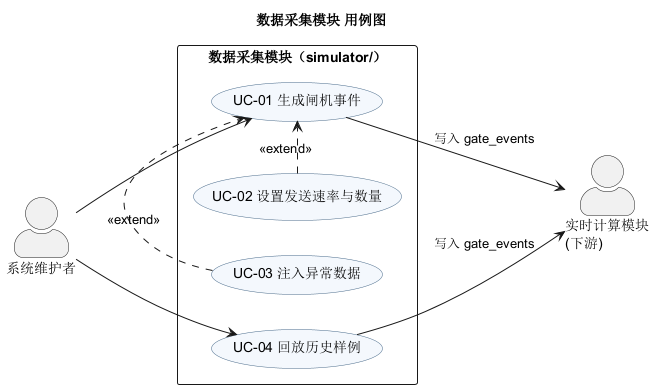
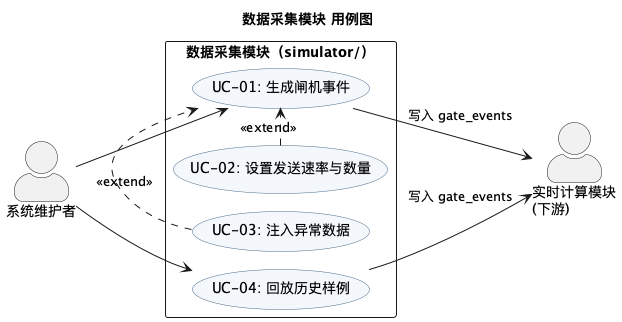
docs(需求): 按实验一规范补角色表和用例列表 (#4)
对照实验指导书「二、需求规格说明书」2.1/2.2 的格式重做需求文档。

用例表：
- 新增表1-1 角色列表，6 个角色含人与系统内部参与者
- 新增表1-2 用例列表，18 条，保留原有的用户故事追溯列
- 删掉原来的「0. 汇总」表，它和表1-2 重复
- 优先级由「高/中/低」改为 E/H/F 三档，全文统一
- 服务模块 UC-10/11/12/13 由 7 字段扩到 11 字段，
  补「描述」「风险」「触发条件」
- 角色名「主管」改为「值班主管」，与表1-1 对齐
- 修正编号规则说明，原文写的规则与实际用的连续编号不符

用例图（四张）：
- 用例标题改为「UC-编码: 动宾短语」，按 PPT 规范加冒号
- UC-08 名称由「写快照与落库」改为「写快照与写入数据库」，与用例表一致
- 重新导出 PNG

核对：18 个用例在表与图中编号、名称、分布完全一致。

diff --git a/docs/01-需求/用例表.md b/docs/01-需求/用例表.md
@@ -3,32 +3,54 @@
 按四个功能模块分别描述，每个模块一张用例图（见 `docs/03-建模/02`～`05`），
 事件流较复杂的用例另配活动图（见 `docs/03-建模/06`～`08`）。
 
-用例编号规则：`UC-模块序号-序号`，本文用连续编号，与用例图里的别名一一对应。
+用例编号规则：全文采用连续编号 `UC-01`～`UC-18`，与四张用例图里的别名一一对应。
 
 ---
 
-## 0. 汇总
+## 0. 角色列表与用例列表
 
-| 模块 | 用例 | 参与者 | 优先级 | 故事 |
-|------|------|--------|--------|------|
-| 数据采集 | UC-01 生成闸机事件 | 系统维护者 | 高 | US-01 |
-| 数据采集 | UC-02 设置发送速率与数量 | 系统维护者 | 中 | US-01 |
-| 数据采集 | UC-03 注入异常数据 | 系统维护者 | 高 | US-02 |
-| 数据采集 | UC-04 回放历史样例 | 系统维护者 | 中 | US-09 |
-| 实时计算 | UC-05 消费事件 | 计算进程 | 高 | US-03、US-13 |
-| 实时计算 | UC-06 窗口聚合出指标 | 计算进程 | 高 | US-03 |
-| 实时计算 | UC-07 判定迟到与非法事件 | 计算进程 | 高 | US-02 |
-| 实时计算 | UC-08 写快照与写入数据库 | 计算进程 | 高 | US-03、US-10 |
-| 实时计算 | UC-09 重启后续消费 | 计算进程、维护者 | 中 | US-13 |
-| 数据服务 | UC-10 获取实时快照 | 大屏页面、值班员 | 高 | US-03 |
-| 数据服务 | UC-11 查询历史序列 | 主管、大屏页面 | 中 | US-06、US-10 |
-| 数据服务 | UC-12 查询站点排行 | 主管、大屏页面 | 中 | US-07 |
-| 数据服务 | UC-13 渲染大屏页面 | 值班员 | 高 | US-03 |
-| 可视化 | UC-14 查看实时客流 | 值班员 | 高 | US-03 |
-| 可视化 | UC-15 按线路筛选 | 值班员 | 中 | US-05 |
-| 可视化 | UC-16 查看趋势与排行 | 主管 | 中 | US-06、US-07 |
-| 可视化 | UC-17 接收客流告警 | 值班员 | 高 | US-04 |
-| 可视化 | UC-18 感知断线与恢复 | 值班员 | 高 | US-08 |
+> 对应实验指导书「二、需求规格说明书」2.1 角色分析与 2.2 用例分析。
+
+### 表1-1 角色列表
+
+| 编号 | 角色名 | 所属部门 | 简要描述 |
+|------|--------|----------|----------|
+| 1 | 值班员 | 车站值班室 | 盯大屏，看当前哪个站人多、是否需要限流；关心数据有没有断。 |
+| 2 | 值班主管 | 线路运营部 | 看一段时间内的走势与站点排名，用于排班与限流决策。 |
+| 3 | 系统维护者 | 信息技术部 | 造数据、调速率、注入脏数据、回放样例，确认重启不丢数。 |
+| 4 | 大屏页面 | 系统内部 | 前端页面，以 HTTP 轮询方式消费服务模块的接口，不是人。 |
+| 5 | 计算进程 | 系统内部 | 消费者进程，读 Redis Stream、切窗聚合、写快照与数据库。 |
+| 6 | 模拟数据源 | 外部系统 | 模拟闸机上报刷卡事件，事件格式受接口契约约束。 |
+
+### 表1-2 用例列表
+
+> 只列基本用例，不含精化后的扩展用例，与各模块用例表一一对应。
+
+| 编号 | 用例名称 | 角色 | 优先级 | 描述 | 对应故事 |
+|------|----------|------|--------|------|----------|
+| UC-01 | 生成闸机事件 | 模拟数据源、系统维护者 | E | 按设定速率与数量造刷卡事件写入事件队列。 | US-01 |
+| UC-02 | 设置发送速率与数量 | 系统维护者 | H | 通过命令行参数控制造数节奏，便于压测与演示。 | US-01 |
+| UC-03 | 注入异常数据 | 系统维护者 | H | 按比例混入迟到、字段缺失等脏数据，验证链路容错。 | US-02 |
+| UC-04 | 回放历史样例 | 系统维护者 | H | 用固定样例重放，保证结果可复现。 | US-09 |
+| UC-05 | 消费事件 | 计算进程 | E | 以消费组方式从事件队列取事件，支持断点续读。 | US-03、US-13 |
+| UC-06 | 窗口聚合出指标 | 计算进程 | E | 按 1 秒翻滚窗口聚合各站客流，向下对齐。 | US-03 |
+| UC-07 | 判定迟到与非法事件 | 计算进程 | E | 迟到事件按容忍窗口处理，非法事件计入计数。 | US-02 |
+| UC-08 | 写快照与写入数据库 | 计算进程 | E | 快照带 TTL 供接口读，明细落库供回溯与对账。 | US-03、US-10 |
+| UC-09 | 重启后续消费 | 计算进程、系统维护者 | H | 重启后从上次位置继续，不丢已入队事件。 | US-13 |
+| UC-10 | 获取实时快照 | 大屏页面、值班员 | E | 返回最新窗口的客流指标，是大屏主要数据源。 | US-03 |
+| UC-11 | 查询历史序列 | 值班主管、大屏页面 | H | 按时间范围返回逐秒点序，支撑趋势与回溯。 | US-06、US-10 |
+| UC-12 | 查询站点排行 | 值班主管、大屏页面 | H | 按最近 5 分钟累计客流降序取前 N。 | US-07 |
+| UC-13 | 渲染大屏页面 | 值班员 | E | 返回看板页面，页面与接口同源。 | US-03 |
+| UC-14 | 查看实时客流 | 值班员 | E | 顶部总客流与站点柱状图每秒刷新。 | US-03 |
+| UC-15 | 按线路筛选 | 值班员 | H | 只看某条线路的站点客流。 | US-05 |
+| UC-16 | 查看趋势与排行 | 值班主管 | H | 折线趋势与排行列表合并展示。 | US-06、US-07 |
+| UC-17 | 接收客流告警 | 值班员 | H | 超阈值时页面出现告警横幅。 | US-04 |
+| UC-18 | 感知断线与恢复 | 值班员 | H | 接口连续失败时提示断线，恢复后自动接上。 | US-08 |
+
+### 优先级说明
+
+采用需求工程中的优先级分类：**E**（Essential，必须实现）、**H**（High-value，应当实现）、
+**F**（Follow-on，后续迭代）。本项目当前无 F 级用例，列此项以备后续排期调整。
 
 ---
 
@@ -41,7 +63,7 @@
 | 项 | 内容 |
 |----|------|
 | 参与者 | 系统维护者 |
-| 优先级 | 高 |
+| 优先级 | E |
 | 前置条件 | Redis 可用；Stream `gate_events` 已存在或允许自动创建 |
 | 基本流 | 1. 维护者启动模拟器<br>2. 系统取当前时刻，判断所处时段<br>3. 按站点权重选一个站，按时段决定进/出站倾向<br>4. 生成 1—5 人的乘客数，组装成契约 2.1 的事件<br>5. 写入 Stream，打印一条日志<br>6. 按速率等待后回到步骤 2 |
 | 备选流 | A1 指定 `--count` 时，达到条数即退出 |
@@ -53,7 +75,7 @@
 | 项 | 内容 |
 |----|------|
 | 参与者 | 系统维护者 |
-| 优先级 | 中 |
+| 优先级 | H |
 | 前置条件 | 无 |
 | 基本流 | 1. 维护者传 `--speed`（倍速）与 `--count`（条数）<br>2. 系统按 `1/speed` 换算发送间隔<br>3. `--count` 为 0 时表示不限条数 |
 | 异常流 | E1 `--speed` 非正数：按 0.01 兜底，避免除零或死循环 |
@@ -64,7 +86,7 @@
 | 项 | 内容 |
 |----|------|
 | 参与者 | 系统维护者 |
-| 优先级 | 高 |
+| 优先级 | H |
 | 前置条件 | 已设置 `--inject` 比例（0—1） |
 | 基本流 | 1. 每条事件生成后按比例抽样<br>2. 命中时随机选一种异常：缺字段（去掉 `passengers` 或 `event_time`）或乱序（事件时间回拨 3—30 秒）<br>3. 照常写入 Stream |
 | 异常流 | E1 `--inject` 超出 0—1：参数校验直接报错退出 |
@@ -75,7 +97,7 @@
 | 项 | 内容 |
 |----|------|
 | 参与者 | 系统维护者 |
-| 优先级 | 中 |
+| 优先级 | H |
 | 前置条件 | 样例文件存在且为 JSONL，每行一条事件 |
 | 基本流 | 1. 维护者传 `--replay <路径>`<br>2. 系统读取全部事件<br>3. 按事件时间差与倍速计算等待时长<br>4. 逐条写入 Stream |
 | 异常流 | E1 文件为空：提示后结束<br>E2 某行不是合法 JSON：读文件阶段即失败退出 |
@@ -92,7 +114,7 @@
 | 项 | 内容 |
 |----|------|
 | 参与者 | 计算进程（主）、系统维护者（启停） |
-| 优先级 | 高 |
+| 优先级 | E |
 | 前置条件 | Redis 可用；消费组 `metric_builder` 已建立（不存在则创建） |
 | 基本流 | 1. 进程启动，`ping` 通过后建立消费组<br>2. 以消费组身份读取新消息（`>`）<br>3. 逐条取出 `data` 字段解析为事件<br>4. 交给窗口处理<br>5. 处理完成后确认（ACK）消息 |
 | 备选流 | A1 无新消息：阻塞等待，超时后进入下一个窗口 |
@@ -104,7 +126,7 @@
 | 项 | 内容 |
 |----|------|
 | 参与者 | 计算进程 |
-| 优先级 | 高 |
+| 优先级 | E |
 | 前置条件 | 已读入若干事件 |
 | 基本流 | 1. 取当前时刻并向下对齐到整秒，得到窗口起点<br>2. 计算窗口结束时间<br>3. 把事件分成"本窗口"和"属于后续窗口"两部分<br>4. 后续窗口的事件暂存，留到下一轮<br>5. 对剩余事件按站点累加客流，同时统计迟到、非法<br>6. 站点结果按客流降序排列 |
 | 备选流 | A1 本窗口没有有效事件：仍产出全 0 的指标，用于维持快照存活 |
@@ -116,7 +138,7 @@
 | 项 | 内容 |
 |----|------|
 | 参与者 | 计算进程 |
-| 优先级 | 高 |
+| 优先级 | E |
 | 前置条件 | 事件已进入聚合流程 |
 | 基本流 | 1. 尝试解析 `event_time`、`passengers`、`station_id`<br>2. 任一字段缺失或类型不对，计一条非法并跳过<br>3. 事件时间早于"窗口起点减 2 个窗口"，计一条迟到并跳过<br>4. 其余事件计入客流 |
 | 备选流 | A1 迟到事件按站点记录，写入数据库时带在对应站点行上 |
@@ -128,7 +150,7 @@
 | 项 | 内容 |
 |----|------|
 | 参与者 | 计算进程 |
-| 优先级 | 高 |
+| 优先级 | E |
 | 前置条件 | 指标已算出 |
 | 基本流 | 1. 组装快照 JSON（含时间戳、总量、站点明细、两个计数）<br>2. 写入 `metric:snapshot`，设置 5 秒过期<br>3. 按站点组装明细行<br>4. 批量写入 `metric_window`，冲突时忽略 |
 | 备选流 | A1 本窗口没有任何站点数据：跳过写入数据库 |
@@ -140,7 +162,7 @@
 | 项 | 内容 |
 |----|------|
 | 参与者 | 计算进程、系统维护者 |
-| 优先级 | 中 |
+| 优先级 | H |
 | 前置条件 | 进程曾异常退出或被人为停止 |
 | 基本流 | 1. 重新启动，加入同一消费组<br>2. 组内记录上次确认位置<br>3. 只读取未确认的消息<br>4. 重新聚合写入，唯一键保证不产生重复行 |
 | 备选流 | A1 重启期间到达的新消息按正常路径消费 |
@@ -157,47 +179,65 @@
 
 | 项 | 内容 |
 |----|------|
-| 参与者 | 大屏页面、值班员 |
-| 优先级 | 高 |
-| 前置条件 | Web 服务运行 |
-| 基本流 | 1. 调用方请求 `/api/snapshot`<br>2. 服务读取 `metric:snapshot`<br>3. 有值则原样返回，响应头带 `no-store` |
-| 备选流 | A1 快照不存在（消费者未启动或已停）：返回空结构，状态码仍为 200 |
-| 异常流 | E1 Redis 不可用：同样返回空结构，不让页面报错<br>E2 快照内容不是合法 JSON：按空结构处理 |
-| 后置条件 | 调用方拿到与契约一致的结构 |
+| 用例标识和名称 | UC-10: 获取实时快照 |
+| 描述 | 把最新一个窗口的客流指标一次性交给大屏，看板顶部数字与柱状图都取自这里。 |
+| 参与者 | 大屏页面（主）、值班员 |
+| 优先级 | E |
+| 风险 | 高 —— 它是大屏的主要数据源，接口异常整块看板没有数字。 |
+| 前置条件和假设 | Web 服务与 Redis 可用；假设消费者在写 `metric:snapshot`。 |
+| 触发条件 | 页面每秒轮询一次。 |
+| 主事件流 | 1. 调用方请求 `GET /api/snapshot`<br>2. 服务读取 `metric:snapshot`<br>3. 有值则原样返回，响应头带 `no-store` |
+| 可选事件流 | A1 快照不存在（消费者未启动或已停）：返回空结构，状态码仍为 200<br>E1 Redis 不可用：同样返回空结构，不让页面报错<br>E2 快照内容不是合法 JSON：按空结构处理 |
+| 后置条件 | 调用方拿到与契约 4.1 一致的结构。 |
+| 非功能性需求 | 非功能要求「实时性」：事件产生到上屏 ≤ 2 秒；单次响应毫秒级，Redis 不可用时也不得返回 5xx。 |
 
 ### UC-11 查询历史序列
 
 | 项 | 内容 |
 |----|------|
-| 参与者 | 主管、大屏页面 |
-| 优先级 | 中 |
-| 前置条件 | `metric_window` 中已有数据 |
-| 基本流 | 1. 请求 `/api/series`，可带 `station_id` 与 `minutes`<br>2. 校验 `minutes` 为 1—60 的整数<br>3. 按起始时间过滤，指定站则加站点条件<br>4. 按时间戳聚合后升序返回 |
-| 备选流 | A1 不传 `station_id`：按时间戳汇总全部站点 |
-| 异常流 | E1 参数非法：返回 400 与 `INVALID_PARAM`，消息里带上收到的值 |
-| 后置条件 | 返回点序与落库粒度一致（每秒一个点） |
+| 用例标识和名称 | UC-11: 查询历史序列 |
+| 描述 | 按时间范围返回逐秒客流点序，支撑趋势折线与事后回溯。 |
+| 参与者 | 值班主管、大屏页面 |
+| 优先级 | H |
+| 风险 | 中 —— 只影响趋势与回溯，不影响主看板数字。 |
+| 前置条件和假设 | `metric_window` 中已有数据；假设 `ts` 存的是窗口起点。 |
+| 触发条件 | 页面定时轮询，或主管手工查询。 |
+| 主事件流 | 1. 请求 `GET /api/series`，可带 `station_id` 与 `minutes`<br>2. 校验 `minutes` 为 1—60 的整数<br>3. 按起始时间过滤，指定站则加站点条件<br>4. 按时间戳聚合后升序返回 |
+| 可选事件流 | A1 不传 `station_id`：按时间戳汇总全部站点<br>A2 时间范围内无数据：返回空 `points` 数组，状态码 200<br>E1 参数非法：返回 400 与 `INVALID_PARAM`，消息里带上收到的值 |
+| 后置条件 | 返回点序与落库粒度一致（每秒一个点）。 |
+| 非功能性需求 | 非功能要求「正确性」：同窗口数值与快照口径一致；单次查询响应应在百毫秒级（本地单机）。 |
 
 ### UC-12 查询站点排行
 
 | 项 | 内容 |
 |----|------|
-| 参与者 | 主管、大屏页面 |
-| 优先级 | 中 |
-| 前置条件 | `metric_window` 中最近 5 分钟有数据 |
-| 基本流 | 1. 请求 `/api/rank`，可带 `top`<br>2. 校验 `top` 为 1—20 的整数，缺省 5<br>3. 取最近 5 分钟数据，按站点求和<br>4. 降序取前 N 返回 |
-| 异常流 | E1 参数非法：400 + `INVALID_PARAM` |
-| 后置条件 | 排行数值与历史序列同期累计一致 |
+| 用例标识和名称 | UC-12: 查询站点排行 |
+| 描述 | 按最近 5 分钟累计客流对站点降序取前 N，给出「哪个站最挤」的即时结论。 |
+| 参与者 | 值班主管、大屏页面 |
+| 优先级 | H |
+| 风险 | 中 —— 排行是辅助判断，失真不阻断值守，但会误导限流决策。 |
+| 前置条件和假设 | `metric_window` 中最近 5 分钟有数据；假设统计窗口固定 5 分钟，不做参数化。 |
+| 触发条件 | 页面定时轮询，或主管手工查询。 |
+| 主事件流 | 1. 请求 `GET /api/rank`，可带 `top`<br>2. 校验 `top` 为 1—20 的整数，缺省 5<br>3. 取最近 5 分钟数据，按站点求和<br>4. 降序取前 N 返回 |
+| 可选事件流 | A1 不传 `top`：默认取前 5<br>A2 窗口内无数据：返回空 `top` 数组，状态码 200<br>E1 参数非法：400 + `INVALID_PARAM` |
+| 后置条件 | 排行数值与历史序列同期累计一致。 |
+| 非功能性需求 | 非功能要求「正确性」：与历史序列同口径，同一时间窗内两接口数值应可对账。 |
 
 ### UC-13 渲染大屏页面
 
 | 项 | 内容 |
 |----|------|
+| 用例标识和名称 | UC-13: 渲染大屏页面 |
+| 描述 | 值班员打开根路径即可看到看板，页面与接口同源，省掉跨域配置。 |
 | 参与者 | 值班员 |
-| 优先级 | 高 |
-| 前置条件 | Web 服务运行 |
-| 基本流 | 1. 浏览器请求 `/`<br>2. 服务端渲染页面模板并返回<br>3. 浏览器加载 CDN 上的 Vue 与 ECharts，接管页面 |
-| 异常流 | E1 模板语法错误：返回 500，由服务端日志定位 |
-| 后置条件 | 页面与接口同源，无需跨域配置 |
+| 优先级 | E |
+| 风险 | 低 —— 页面本身是静态模板，出错容易定位。 |
+| 前置条件和假设 | Web 服务运行；假设浏览器可访问 CDN 上的 Vue 与 ECharts。 |
+| 触发条件 | 浏览器访问 `/`。 |
+| 主事件流 | 1. 浏览器请求 `/`<br>2. 服务端渲染页面模板并返回<br>3. 浏览器加载 CDN 上的 Vue 与 ECharts，接管页面 |
+| 可选事件流 | A1 CDN 不可达：图表区域不渲染，顶部数字仍可显示<br>E1 模板语法错误：返回 500，由服务端日志定位 |
+| 后置条件 | 页面与接口同源，无需跨域配置。 |
+| 非功能性需求 | 非功能要求「实时性」：首屏 2 秒内出数。 |
 
 ---
 
@@ -210,7 +250,7 @@
 | 项 | 内容 |
 |----|------|
 | 参与者 | 值班员 |
-| 优先级 | 高 |
+| 优先级 | E |
 | 前置条件 | 页面已打开，接口可用 |
 | 基本流 | 1. 页面每秒请求一次快照<br>2. 更新顶部总客流与站点明细<br>3. 柱状图重绘，站点按客流降序 |
 | 备选流 | A1 快照为空：图表留空并显示"暂无数据" |
@@ -222,7 +262,7 @@
 | 项 | 内容 |
 |----|------|
 | 参与者 | 值班员 |
-| 优先级 | 中 |
+| 优先级 | H |
 | 前置条件 | 已有站点明细，且每条明细带 `line_id` |
 | 基本流 | 1. 点击"1 号线/2 号线/全部"<br>2. 页面按线路过滤站点集合<br>3. 柱状图只画过滤后的站点 |
 | 备选流 | A1 某线路当前无数据：图表为空但保留坐标轴 |
@@ -232,8 +272,8 @@
 
 | 项 | 内容 |
 |----|------|
-| 参与者 | 主管 |
-| 优先级 | 中 |
+| 参与者 | 值班主管 |
+| 优先级 | H |
 | 前置条件 | 历史数据可用 |
 | 基本流 | 1. 页面每 5 秒请求一次序列与排行<br>2. 序列渲染为折线，排行渲染为列表<br>3. 两者与柱状图共用同一口径 |
 | 备选流 | A1 历史接口失败：保留上一轮图形，不打断主看板 |
@@ -244,7 +284,7 @@
 | 项 | 内容 |
 |----|------|
 | 参与者 | 值班员 |
-| 优先级 | 高 |
+| 优先级 | H |
 | 前置条件 | 页面在刷新中 |
 | 基本流 | 1. 每次拿到快照后比较总客流与阈值<br>2. 超过阈值显示红色横幅，文案带上当前值与阈值<br>3. 回落到阈值以下自动消失 |
 | 备选流 | A1 阈值暂为前端常量 100 人次/秒，待配置化 |
@@ -255,7 +295,7 @@
 | 项 | 内容 |
 |----|------|
 | 参与者 | 值班员 |
-| 优先级 | 高 |
+| 优先级 | H |
 | 前置条件 | 页面在轮询 |
 | 基本流 | 1. 请求超时或返回非 2xx<br>2. 底部状态变为"连接中断，正在重试"<br>3. 定时器继续按周期重试<br>4. 恢复后状态回到"实时连接"，数据自动续上 |
 | 异常流 | E1 长时间断线：页面保留最后一次数据，但明确标注不是最新 |
